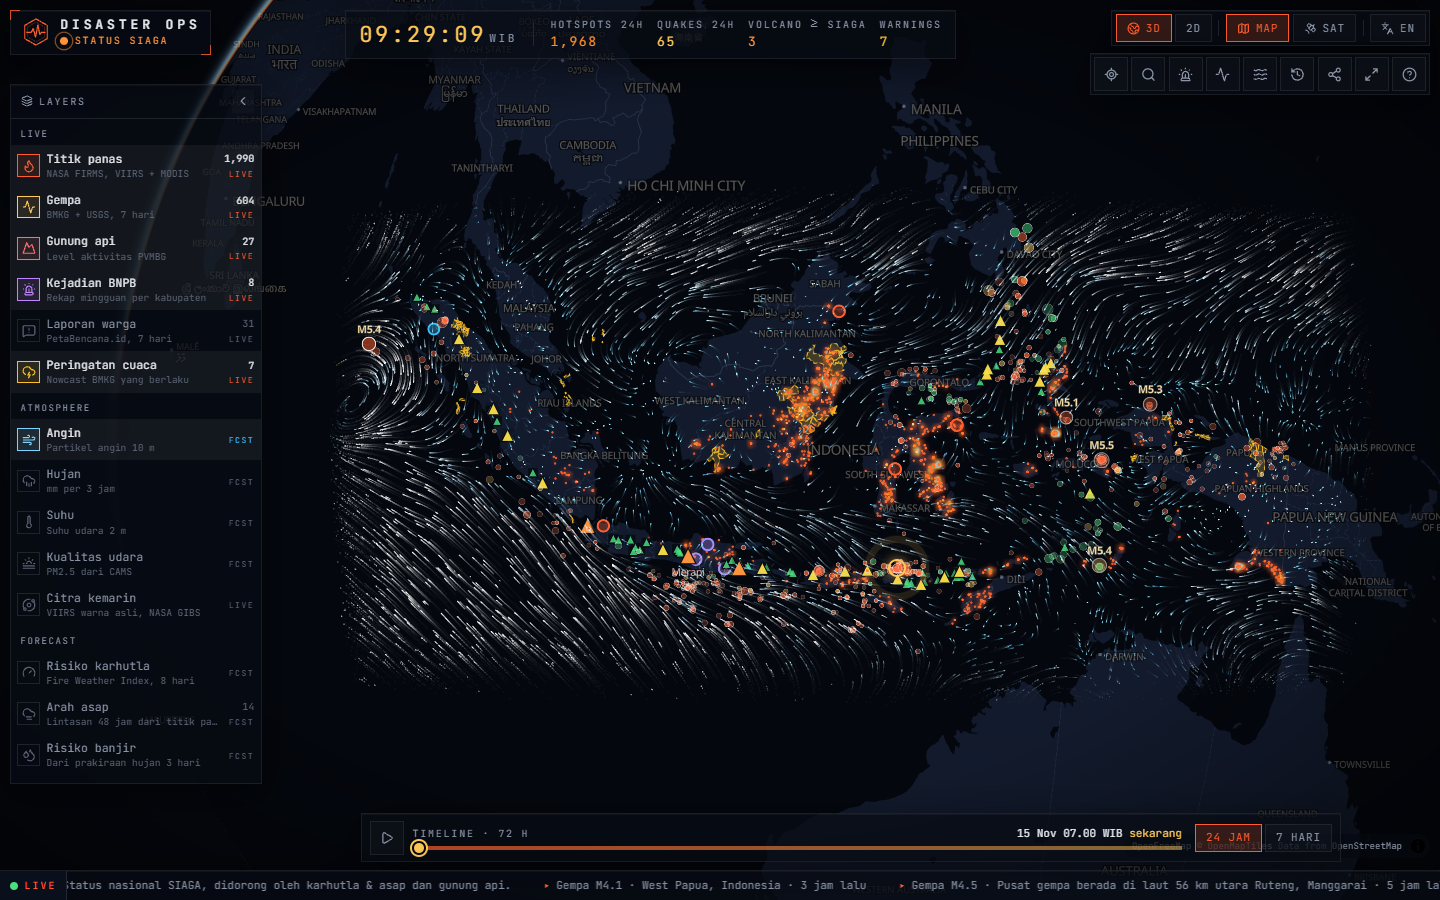
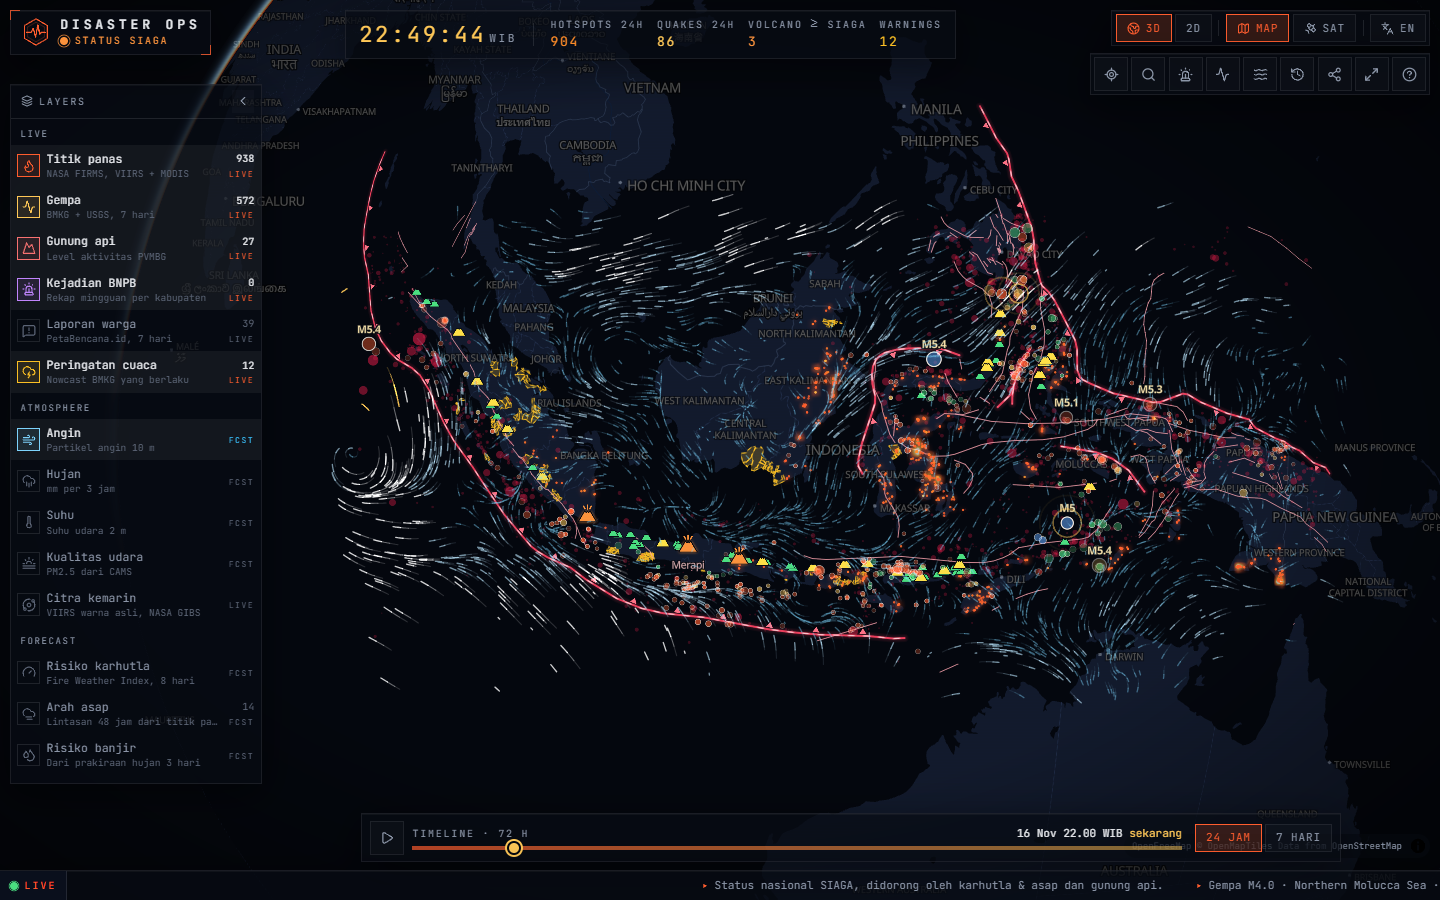
v1.1.0: changelog, README, screenshot baru

diff --git a/README.md b/README.md
@@ -24,6 +24,11 @@
   <img src="docs/screenshots/guncangan.png" width="49%" alt="Skenario guncangan Sesar Lembang M6,8: 24 juta orang di MMI VI ke atas" />
   <img src="docs/screenshots/replay.png" width="49%" alt="Putar ulang karhutla 2019 hari demi hari" />
 </p>
+<p align="center">
+  <img src="docs/screenshots/hujan.png" width="32%" alt="Prakiraan hujan: rintik jatuh di tempat hujannya, angin tetap mengalir" />
+  <img src="docs/screenshots/megathrust.png" width="32%" alt="Klik garis megathrust: garisnya menyala dan bisa langsung dijadikan skenario" />
+  <img src="docs/screenshots/bahaya.png" width="32%" alt="Peta bahaya longsor InaRISK di Jawa" />
+</p>
 
 ## 🇬🇧 In English
 
@@ -78,10 +83,10 @@ ditanya *"kalau terjadi di sini, gimana?"*.
 | E | Arah asap: lintasan 48 jam dari gugus titik panas | prakiraan | FIRMS + angin 850 hPa |
 | B | Risiko banjir dari hujan 3 hari terbasah | prakiraan 8 hari | Open-Meteo |
 | V | Debit 22 sungai dibanding klimatologi 1991-2020 | prakiraan 8 hari | GloFAS lewat Open-Meteo |
-| Z | 322 sesar aktif, 17 segmen megathrust, 1.829 gempa M6+ sejak 1900 | statis | GEM, Bird (2003), USGS |
+| Z | 154 sesar aktif, 6 garis megathrust (klik garisnya, garisnya yang menyala), 1.829 gempa M6+ sejak 1900 | statis | GEM, Bird (2003), USGS |
 | X | Peta bahaya InaRISK: gempa, tsunami, banjir, longsor, karhutla, gunung api | statis | BNPB |
 | N | Kepadatan penduduk, sel 5 km | statis | WorldPop 2020 |
-| H | 1.285 rumah sakit | statis | OpenStreetMap |
+| H | 3.567 rumah sakit | statis | OpenStreetMap (ekspor HOT) |
 
 Rincian sumber, lisensi, dan batasan tiap lapisan ada di [`data/SUMBER_DATA.md`](data/SUMBER_DATA.md).
 
@@ -127,19 +132,24 @@ BMKG InaTEWS + USGS   ──app/api/gempa───────▶ browser, tiap 
 MAGMA (HTML)          ──app/api/gunung──────▶ browser, tiap 30 menit
 BNPB + PetaBencana    ──app/api/bencana─────▶ browser, tiap 15 menit
 BMKG nowcast (CAP)    ──app/api/peringatan──▶ browser, tiap 5 menit
-BNPB InaRISK          ──app/api/inarisk─────▶ ubin peta bahaya (proxy, disimpan CDN sebulan)
 Open-Meteo            ──scripts/bangun_cuaca.ts──▶ cabang `data`/cuaca.json   (tiap 6 jam, GitHub Actions)
-ETOPO, WorldPop, OSM, GEM, FIRMS 2019 ──scripts/bangun_data.py──▶ public/data  (sekali, hasilnya di-commit)
+ETOPO, WorldPop, OSM, GEM, FIRMS 2019, InaRISK ──scripts/bangun_data.py──▶ public/data  (sekali, hasilnya di-commit)
 ```
 
 - **Globe & lapisan.** MapLibre GL dengan proyeksi globe, basemap vektor gelap dari OpenFreeMap (tanpa kunci API).
   Tiap lapisan data adalah source GeoJSON + layer WebGL, jadi belasan ribu titik panas tetap mulus.
-- **Angin dan asap.** Partikel hidup di koordinat lon/lat dan digambar di kanvas 2D di atas peta
-  (`src/lib/peta/angin.ts`), diproyeksikan tiap frame dengan matriks globe MapLibre. Kecepatan di layar dibuat tidak
-  bergantung zoom; menjelang tepi grid partikel menipis supaya gak terpotong tajam. Asap dilepas dari gugus titik panas
-  dan dihanyutkan angin 850 hPa yang berubah mengikuti prakiraan.
-- **Lapisan medan.** Hujan, suhu, PM2.5, FWI, risiko banjir, dan penduduk digambar ke kanvas kecil lalu dipakai
-  MapLibre sebagai source `canvas`. Baris kanvas dihitung di ruang Mercator supaya gak bergeser dari garis pantai.
+- **Angin, hujan, kabut, asap.** Semua yang bergerak hidup di koordinat lon/lat dan digambar di satu kanvas 2D di
+  atas peta (`src/lib/peta/efek.ts`), diproyeksikan ulang tiap frame dengan matriks globe MapLibre. Kanvasnya
+  dibersihkan tiap frame dan jejak angin disimpan sebagai riwayat posisi, jadi gak ada yang hilang atau tertinggal
+  waktu peta digeser atau di-zoom. Kecepatan di layar gak bergantung zoom, dan menjelang tepi grid partikel menipis
+  membulat supaya batasnya gak kelihatan kotak. Hujan jatuh sebagai rintik di tempat prakiraannya, PM2.5 jadi kabut
+  yang hanyut, asap dilepas dari gugus titik panas dan dihanyutkan angin 850 hPa.
+- **Lapisan medan.** Hujan, suhu, PM2.5, FWI, risiko banjir, dan penduduk digambar ke kanvas lepas, dihaluskan, lalu
+  dipasang ke source `image` MapLibre. Baris gambar dihitung di ruang Mercator supaya gak bergeser dari garis pantai.
+  Nyala dan matinya lewat opasitas, jadi memudar, bukan kedip.
+- **Peta bahaya InaRISK.** Indeks bahaya BNPB (0-1) diunduh sekali lewat `scripts/bangun_data.py`, diwarnai dengan
+  palet sendiri (`src/lib/peta/palet_inarisk.json`), dan disimpan jadi satu gambar WebP per jenis. Browser cukup
+  mengunduh satu gambar lalu memudarkannya masuk, gak lagi menunggu ubin satu-satu dari server BNPB.
   FWI, banjir, dan penduduk disisipkan di bawah lapisan laut, jadi otomatis terpotong rapi di pantai.
 - **Fire Weather Index.** `src/lib/model/fwi.ts` adalah implementasi penuh sistem FWI Kanada (FFMC, DMC, DC, ISI, BUI,
   FWI) dengan faktor panjang hari khatulistiwa. Dihitung berurutan dari 30 hari riwayat supaya kode kekeringannya
@@ -184,8 +194,8 @@ python scripts/kalibrasi_sungai.py  # cari ulang sel GloFAS untuk 22 sungai + kl
 ### Tes
 
 ```bash
-npm test                            # Vitest: 117 tes untuk model, parser tiap sumber, kamus, dan data yang di-deploy
-npm run build && npm run test:e2e   # Playwright: 12 skenario di 360, 390, 412, dan 1440 px + 6 tes server
+npm test                            # Vitest: 134 tes untuk model, parser tiap sumber, kamus, dan data yang di-deploy
+npm run build && npm run test:e2e   # Playwright: 18 skenario di 360, 390, 412, dan 1440 px + 6 tes server
 ```
 
 Tes unit membaca data asli di `public/data`, jadi angka seperti "24 juta orang di MMI VI ke atas untuk Sesar Lembang"
@@ -207,7 +217,8 @@ bergantung pada kejadian hari itu. Keduanya jalan di CI pada setiap push.
 - **Skenario guncangan mengabaikan jenis tanah.** Tanah lunak bisa menaikkan intensitas 1-2 tingkat MMI.
 - **Rekap BNPB ditaruh di ibu kota kabupaten**, bukan lokasi persis kejadian. Laporan PetaBencana belum tentu
   terverifikasi.
-- **Rumah sakit dari OpenStreetMap belum lengkap.** Rute memakai server demo OSRM tanpa jaminan layanan.
+- **Rumah sakit dari OpenStreetMap, selengkap yang dipetakan relawan.** Rute memakai server demo OSRM tanpa jaminan
+  layanan.
 - **Level gunung api dibaca dari halaman MAGMA.** Kalau MAGMA gak terjangkau, level ditampilkan "tidak diketahui"
   alih-alih angka basi.
 

diff --git a/CHANGELOG.md b/CHANGELOG.md
@@ -2,6 +2,39 @@
 
 Format mengikuti [Keep a Changelog](https://keepachangelog.com/id-ID/1.1.0/), versi mengikuti [SemVer](https://semver.org/lang/id/).
 
+## [1.1.0] - 2026-11-16
+
+### Diubah
+
+- Angin, hujan, kabut PM2.5, dan asap pindah ke satu kanvas efek yang digambar ulang tiap frame dari koordinat
+  geografis: gak ada lagi lapisan yang hilang waktu peta digeser atau di-zoom, dan tepinya memudar membulat, bukan
+  terpotong kotak.
+- Hujan sekarang rintik yang jatuh di tempat prakiraannya, PM2.5 kabut yang hanyut bersama angin; medan suhu dan
+  FWI dibuat lebih tipis supaya yang menonjol hanya yang menyimpang. Kota-kota utama menampilkan angkanya.
+- Ikon baru digambar sendiri: palang untuk rumah sakit, glif per jenis bencana untuk kejadian BNPB dan laporan
+  warga, gelombang untuk sungai, segitiga berasap untuk gunung api.
+- Sesar dan megathrust: 17 potongan zona subduksi dirangkai jadi 6 garis bergigi yang mengalir; klik garisnya dan
+  garis itu sendiri yang menyala. Jejak GEM yang kembar dengan megathrust dibuang.
+- Peta bahaya InaRISK jadi satu gambar per jenis dengan palet sendiri, muncul dan hilang dengan memudar. Pilihan
+  jenisnya jadi tombol, lengkap dengan legenda rendah-sedang-tinggi.
+- Sesar & megathrust ikut nyala sejak awal.
+
+### Ditambahkan
+
+- Tooltip saat kursor di atas objek peta, riak di gempa 24 jam terakhir, bidikan berdenyut di objek terpilih.
+- Tahap `inarisk` di `scripts/bangun_data.py`.
+
+### Diperbaiki
+
+- Rumah sakit cuma tampil di Sumatra dan Jawa bagian barat (jawaban Overpass terpotong): sekarang 3.567 rumah sakit
+  se-Indonesia dari ekspor HOT.
+- Partikel angin dibersihkan lalu ditabur ulang tiap kali peta bergerak, termasuk waktu tombol "Kembali ke
+  Indonesia" ditekan.
+
+### Dihapus
+
+- Proxy ubin `/api/inarisk`.
+
 ## [1.0.0] - 2026-11-15
 
 Rilis pertama.
